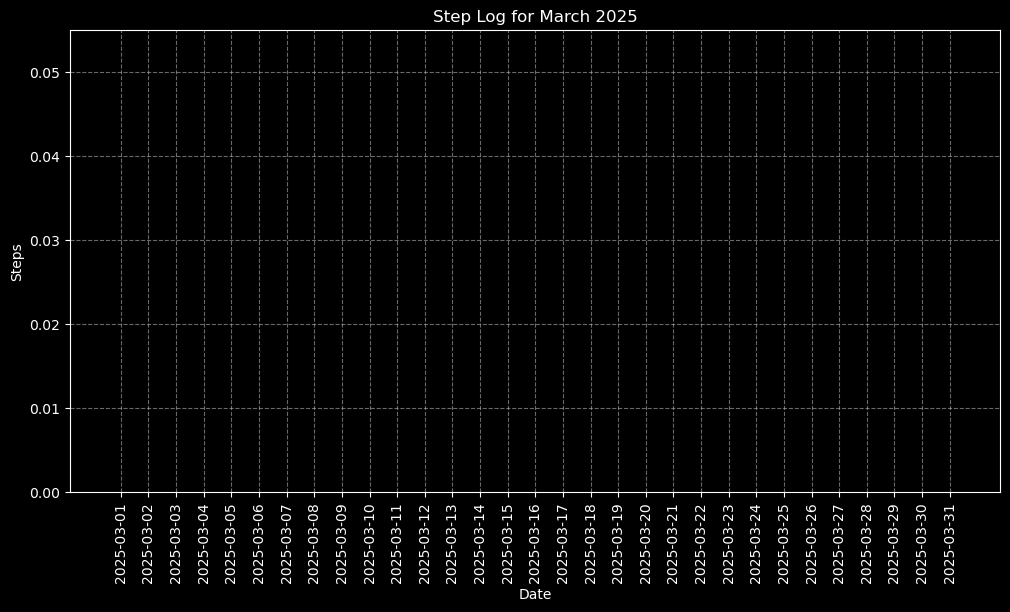
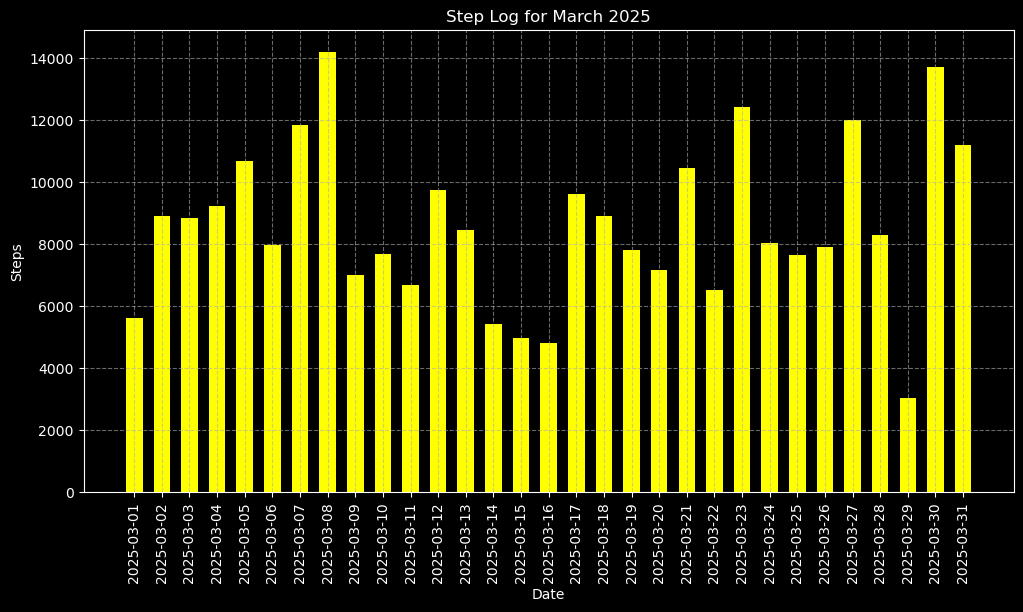
update

diff --git a/frontend/assets/weightGraph.js b/frontend/assets/weightGraph.js
@@ -5,10 +5,6 @@ document.getElementById("graphForm").addEventListener("submit", function(event) 
    let month = document.getElementById("month").value;
    let user_id = document.getElementById("user_id").value;
 
-   let baseURL = "./images/";
-   let imageName = "weightGraph_" + user_id + "_" + year + "_" + month;
-   let extension = ".png";
-
    // Call PHP script to generate the graph
    try {
    fetch(`../backend/display_graph.php?year=${year}&month=${month}`)
@@ -16,7 +12,7 @@ document.getElementById("graphForm").addEventListener("submit", function(event) 
    .then(data => {
       console.log("Server response:", data);
       if (data.status === "success") {
-         document.getElementById("weightGraphImage").src = data.path + "?" + new Date().getTime();
+         document.getElementById("weightGraphImage").src = data.path;
          document.getElementById("weightGraphImage").style.display = "block";
       } else {
          console.error(`Error on line ${new Error().lineNumber}:`, data.message);
@@ -24,7 +20,6 @@ document.getElementById("graphForm").addEventListener("submit", function(event) 
    })
    .catch(error => console.error(`Fetch error on line ${new Error().lineNumber}:`, error));
 
-   document.getElementById("weightGraphImage").src = baseURL + imageName + extension;
    } catch (error) {
       console.error(`Unexpected error on line ${new Error().lineNumber}:`, error);
    }

diff --git a/mc_basic_code/mc_stepGraph.py b/mc_basic_code/mc_stepGraph.py
@@ -1,97 +1,107 @@
+import os
+os.environ['MPLCONFIGDIR'] = '/tmp/matplotlib'
+import matplotlib
+matplotlib.use('Agg')
 import matplotlib.pyplot as plt
 import matplotlib.dates as mdates
 import mysql.connector
 import sys
-import os
 from datetime import datetime, timedelta
 
-# Read year, month, and user ID from command-line arguments
-year = int(sys.argv[1])
-month = int(sys.argv[2])
-user_id = int(sys.argv[3])
+import traceback
 
-BACKGROUND_COLOR = 'black'
-LABEL_COLOR = 'white'
+sys.stderr = open('/tmp/python_error.log', 'w')
+def log_exception(exc_type, exc_value, exc_tb):
+    traceback.print_exception(exc_type, exc_value, exc_tb, file=sys.stderr)
 
-# Connect to database
-conn = mysql.connector.connect(
-   host="joecool.highpoint.edu",
-   user="ejerrier",
-   password="1788128",
-   database="csc4710_S25_missioncritical",
-   charset="utf8mb4",
-   collation="utf8mb4_general_ci"
-)
-cursor = conn.cursor()
+sys.excepthook = log_exception
 
-# Generate all dates for the month
-days_in_month = (datetime(year, month % 12 + 1, 1) - timedelta(days=1)).day
-all_dates = [f"{year}-{month:02d}-{day:02d}" for day in range(1, days_in_month + 1)]
+try:
+   # Read year, month, and user ID from command-line arguments
+   year = int(sys.argv[1])
+   month = int(sys.argv[2])
+   user_id = int(sys.argv[3])
 
-# Get weights from database for the specific user
-cursor.execute("""
-   SELECT DATE(date) AS log_date, daily_step_count AS steps
-   FROM daily_steps
-   WHERE YEAR(date) = %s AND MONTH(date) = %s AND user_id = %s
-""", (year, month, user_id))
+   BACKGROUND_COLOR = 'black'
+   LABEL_COLOR = 'white'
 
-# Store data from database
-data = {date: 0 for date in all_dates}  # Initialize all days as None
-for log_date, step_count in cursor.fetchall():
-   data[str(log_date)] = step_count  # Fill actual values from database
+   # Connect to database
+   conn = mysql.connector.connect(
+      host="joecool.highpoint.edu",
+      user="ejerrier",
+      password="1788128",
+      database="csc4710_S25_missioncritical",
+      charset="utf8mb4",
+      collation="utf8mb4_general_ci"
+   )
+   cursor = conn.cursor()
 
-cursor.close()
-conn.close()
+   # Generate all dates for the month
+   days_in_month = (datetime(year, month % 12 + 1, 1) - timedelta(days=1)).day
+   all_dates = [f"{year}-{month:02d}-{day:02d}" for day in range(1, days_in_month + 1)]
 
-# Prepare data for graph
-dates = [datetime.strptime(date, "%Y-%m-%d") for date in data.keys()]
-steps = list(data.values())
+   # Get weights from database for the specific user
+   cursor.execute("""
+      SELECT DATE(date) AS log_date, daily_step_count AS steps
+      FROM daily_steps
+      WHERE YEAR(date) = %s AND MONTH(date) = %s AND user_id = %s
+   """, (year, month, user_id))
 
+   # Store data from database
+   data = {date: 0 for date in all_dates}  # Initialize all days as None
+   for log_date, step_count in cursor.fetchall():
+      data[str(log_date)] = step_count  # Fill actual values from database
 
+   cursor.close()
+   conn.close()
 
-# Set graph appearance
-plt.rcParams['text.color'] = LABEL_COLOR
-plt.rcParams['axes.labelcolor'] = LABEL_COLOR
-plt.rcParams['axes.edgecolor'] = LABEL_COLOR
-plt.rcParams['xtick.color'] = LABEL_COLOR
-plt.rcParams['ytick.color'] = LABEL_COLOR
-
-fig, ax = plt.subplots(figsize=(12, 6))
-fig.patch.set_facecolor(BACKGROUND_COLOR)
-ax.set_facecolor(BACKGROUND_COLOR)
-
-# Format x-axis
-ax.xaxis.set_major_locator(mdates.DayLocator(interval=1))  # Show every day
-ax.xaxis.set_major_formatter(mdates.DateFormatter("%Y-%m-%d"))  # Format as YYYY-MM-DD
+   # Prepare data for graph
+   dates = [datetime.strptime(date, "%Y-%m-%d") for date in data.keys()]
+   steps = list(data.values())
 
 
-# Plot data
-ax.bar(dates, steps, label="Steps", color='yellow', width=0.6)
 
-# Sort data by date to ensure correct chronological order
-#if dates:
-#   dates, steps = zip(*sorted(zip(dates, steps)))
-#else:
-#   dates, steps = [], []
+   # Set graph appearance
+   plt.rcParams['text.color'] = LABEL_COLOR
+   plt.rcParams['axes.labelcolor'] = LABEL_COLOR
+   plt.rcParams['axes.edgecolor'] = LABEL_COLOR
+   plt.rcParams['xtick.color'] = LABEL_COLOR
+   plt.rcParams['ytick.color'] = LABEL_COLOR
 
-# Convert dates to string format for plotting and ensure correct x-tick order
-all_dates_dt = [datetime.strptime(date, "%Y-%m-%d") for date in all_dates]  # Convert all_dates to datetime
-all_dates_dt.sort()  # Ensure sorted order
-all_dates = [date.strftime("%Y-%m-%d") for date in all_dates_dt]  # Convert back to string
+   fig, ax = plt.subplots(figsize=(12, 6))
+   fig.patch.set_facecolor(BACKGROUND_COLOR)
+   ax.set_facecolor(BACKGROUND_COLOR)
 
-# Set all dates as x-ticks in the correct order
-plt.xticks(all_dates, rotation=90)
-plt.ylim(bottom=0)  # Ensure y-axis starts from 0 for better visualization
+   # Format x-axis
+   ax.xaxis.set_major_locator(mdates.DayLocator(interval=1))  # Show every day
+   ax.xaxis.set_major_formatter(mdates.DateFormatter("%Y-%m-%d"))  # Format as YYYY-MM-DD
 
-plt.xlabel("Date")
-plt.ylabel("Steps")
-plt.title(f"Step Log for {datetime(year, month, 1).strftime('%B %Y')}")
-plt.grid(True, linestyle="--", alpha=0.6)
 
-# Ensure output directory exists
-output_path = f"./frontend/images/stepGraph_{user_id}_{year}_{month}.png"
-os.makedirs(os.path.dirname(output_path), exist_ok=True)
+   # Plot data
+   ax.bar(dates, steps, label="Steps", color='yellow', width=0.6)
 
-# Save the graph
-plt.savefig(output_path, bbox_inches='tight')
-print(output_path)  # Print the file path for PHP
+   # Convert dates to string format for plotting and ensure correct x-tick order
+   all_dates_dt = [datetime.strptime(date, "%Y-%m-%d") for date in all_dates]  # Convert all_dates to datetime
+   all_dates_dt.sort()  # Ensure sorted order
+   all_dates = [date.strftime("%Y-%m-%d") for date in all_dates_dt]  # Convert back to string
+
+   # Set all dates as x-ticks in the correct order
+   plt.xticks(all_dates, rotation=90)
+   plt.ylim(bottom=0)  # Ensure y-axis starts from 0 for better visualization
+
+   plt.xlabel("Date")
+   plt.ylabel("Steps")
+   plt.title(f"Step Log for {datetime(year, month, 1).strftime('%B %Y')}")
+   plt.grid(True, linestyle="--", alpha=0.6)
+
+   # Ensure output directory exists
+   output_path = f"./frontend/images/stepGraph_{user_id}_{year}_{month}.png"
+   os.makedirs(os.path.dirname(output_path), exist_ok=True)
+
+   # Save the graph
+   plt.savefig(output_path, bbox_inches='tight')
+   print(output_path)  # Print the file path for PHP
+except Exception as e:
+   print("Exception occurred:", file=sys.stderr)
+   traceback.print_exc(file=sys.stderr)
+   sys.exit(1)

diff --git a/mc_basic_code/mc_weightGraph.py b/mc_basic_code/mc_weightGraph.py
@@ -1,15 +1,14 @@
-import matplotlib
-matplotlib.use('Agg')
-import mysql.connector
-import sys
 import os
 os.environ['MPLCONFIGDIR'] = '/tmp/matplotlib'
+import matplotlib
+matplotlib.use('svg')
+import mysql.connector
+import sys
 from datetime import datetime, timedelta
 import matplotlib.pyplot as plt
 
 import traceback
 
-sys.stderr = open('/tmp/python_error.log', 'w')
 def log_exception(exc_type, exc_value, exc_tb):
     traceback.print_exception(exc_type, exc_value, exc_tb, file=sys.stderr)
 
@@ -101,14 +100,13 @@ try:
    plt.grid(True, linestyle="--", alpha=0.6)
 
 
-   output_path = "/home/students/adandrea/public_html/missionCritical/frontend/images/weightGraph_" + str(user_id) + "_" + str(year) + "_" + str(month) + ".png"
+   output_path = "/home/students/adandrea/public_html/missionCritical/frontend/images/weightGraph_" + str(user_id) + "_" + str(year) + "_" + str(month) + ".svg"
    os.makedirs(os.path.dirname(output_path), exist_ok=True)
 
    # Save the graph
-   #plt.savefig(output_path, bbox_inches='tight')
+   plt.savefig(output_path, bbox_inches='tight', format='svg')
    print(output_path)  # Print the file path for PHP
 except Exception as e:
-   with open("/tmp/python_error.log", "w") as log:
-      log.write(str(e))
-      log.write("\n")
-      traceback.print_exc(file=log)
+   print("Exception occurred:", file=sys.stderr)
+   traceback.print_exc(file=sys.stderr)
+   sys.exit(1)

diff --git a/frontend/dashboard.php b/frontend/dashboard.php
@@ -196,10 +196,10 @@ $stmt->closeCursor();
          <button type="submit">Generate Graphs</button>
       </form>
 
-      <script src="assets/weightGraph.js"></script>  <!-- Link to weightGraph.js -->
-      <script src="assets/stepGraph.js"></script>  <!-- Link to stepGraph.js -->
+      <script src="assets/weightGraph.js"></script> <!-- Link to weightGraph.js -->
+      <script src="assets/stepGraph.js"></script> <!-- Link to stepGraph.js -->
 
-      <img id="weightGraphImage" alt="Weight Graph" style="width: 600px; height: auto;" class="center">
+      <img id="weightGraph" alt="Weight Graph" style="width: 600px; height: auto;" class="center">
       <p></p>
       <img id="stepGraphImage" alt="Step Graph" style="width: 600px; height: auto;" class="center">
    </div>
